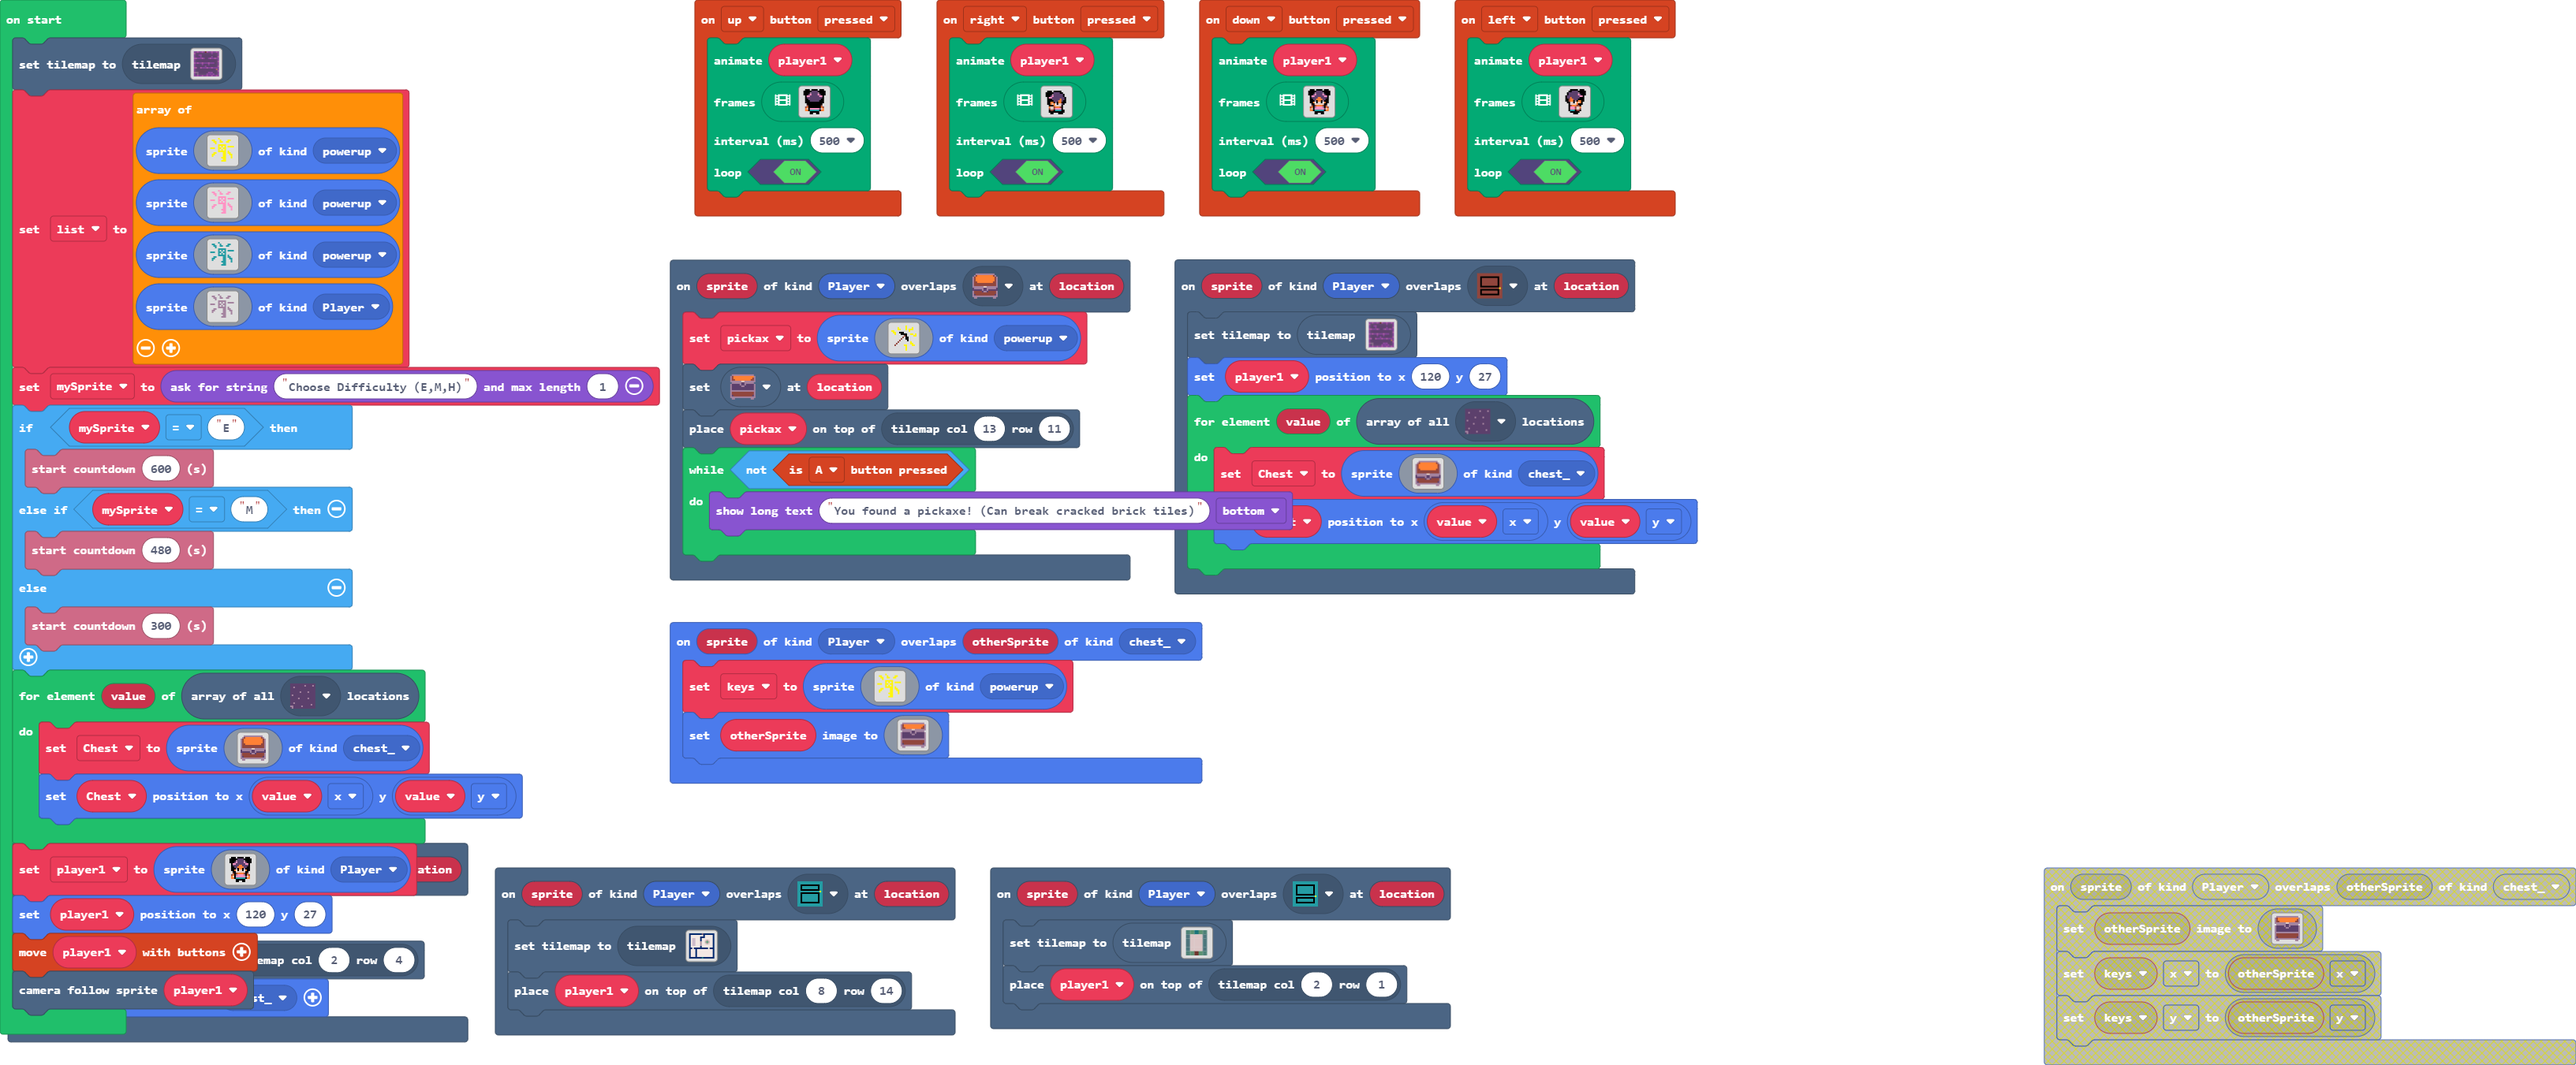
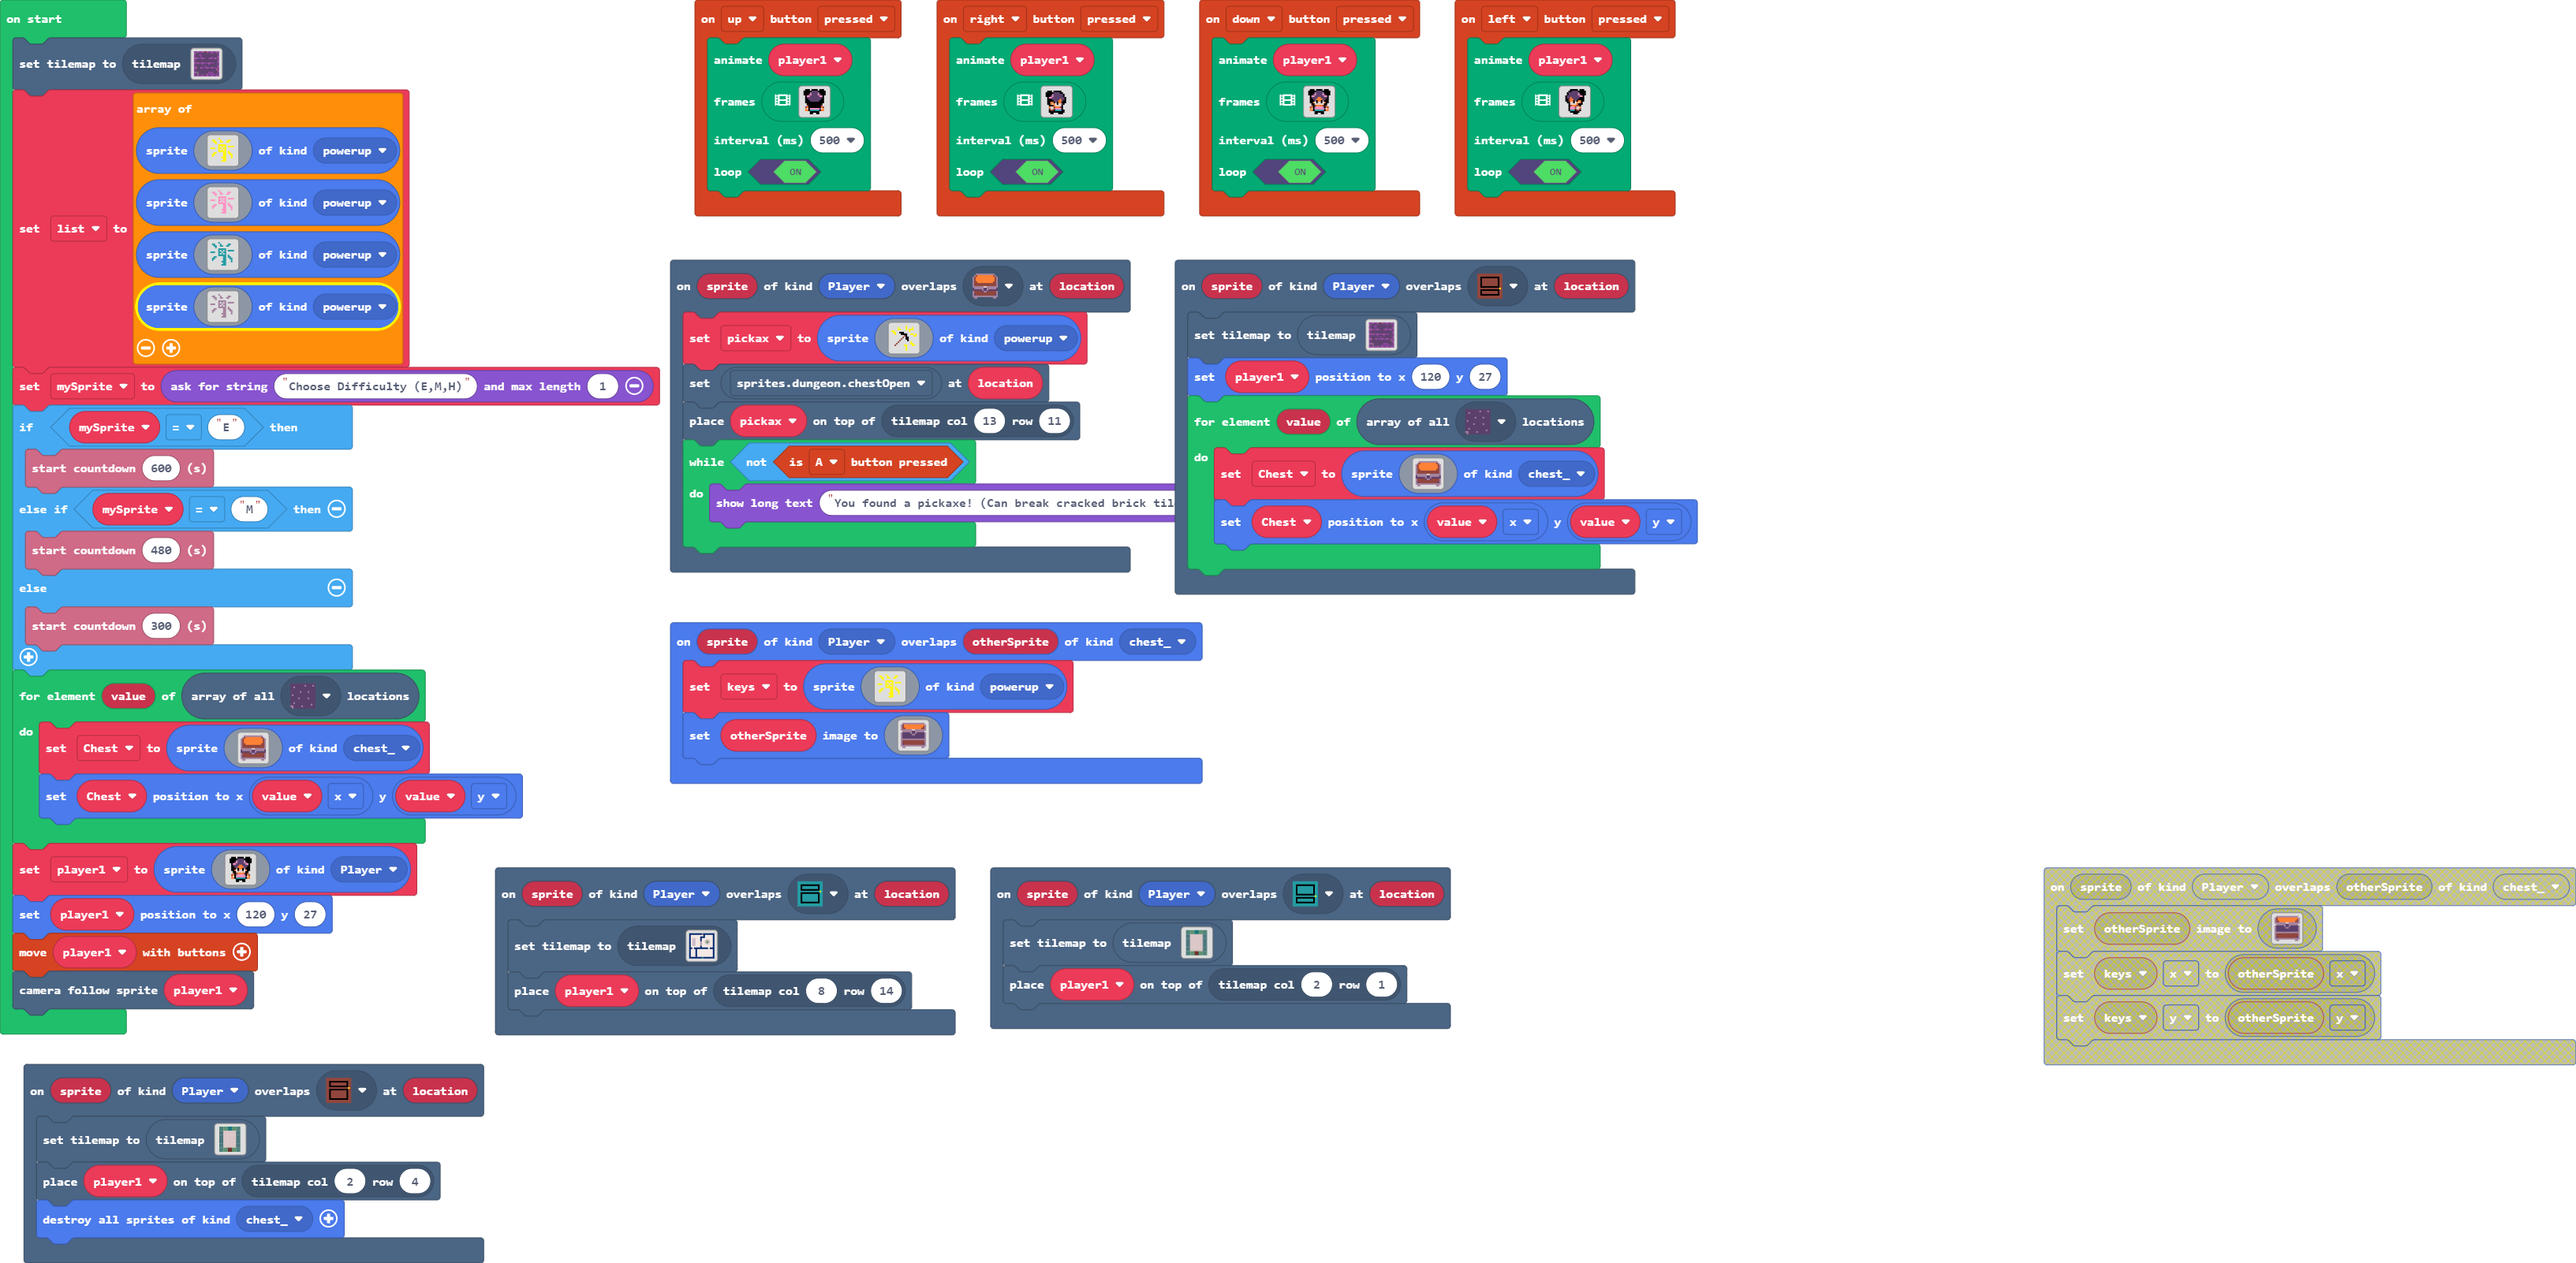
Update main.blocks, main.ts

diff --git a/main.ts b/main.ts
@@ -416,7 +416,7 @@ sprites.create(img`
     . . . . . . . . b b . . . . . . 
     . . . . . . . b b b . . . . . . 
     . . . . . . . . . . . . . . . . 
-    `, SpriteKind.Player)
+    `, SpriteKind.powerup)
 ]
 let mySprite = game.askForString("Choose Difficulty (E,M,H)", 1)
 if (mySprite == "E") {
